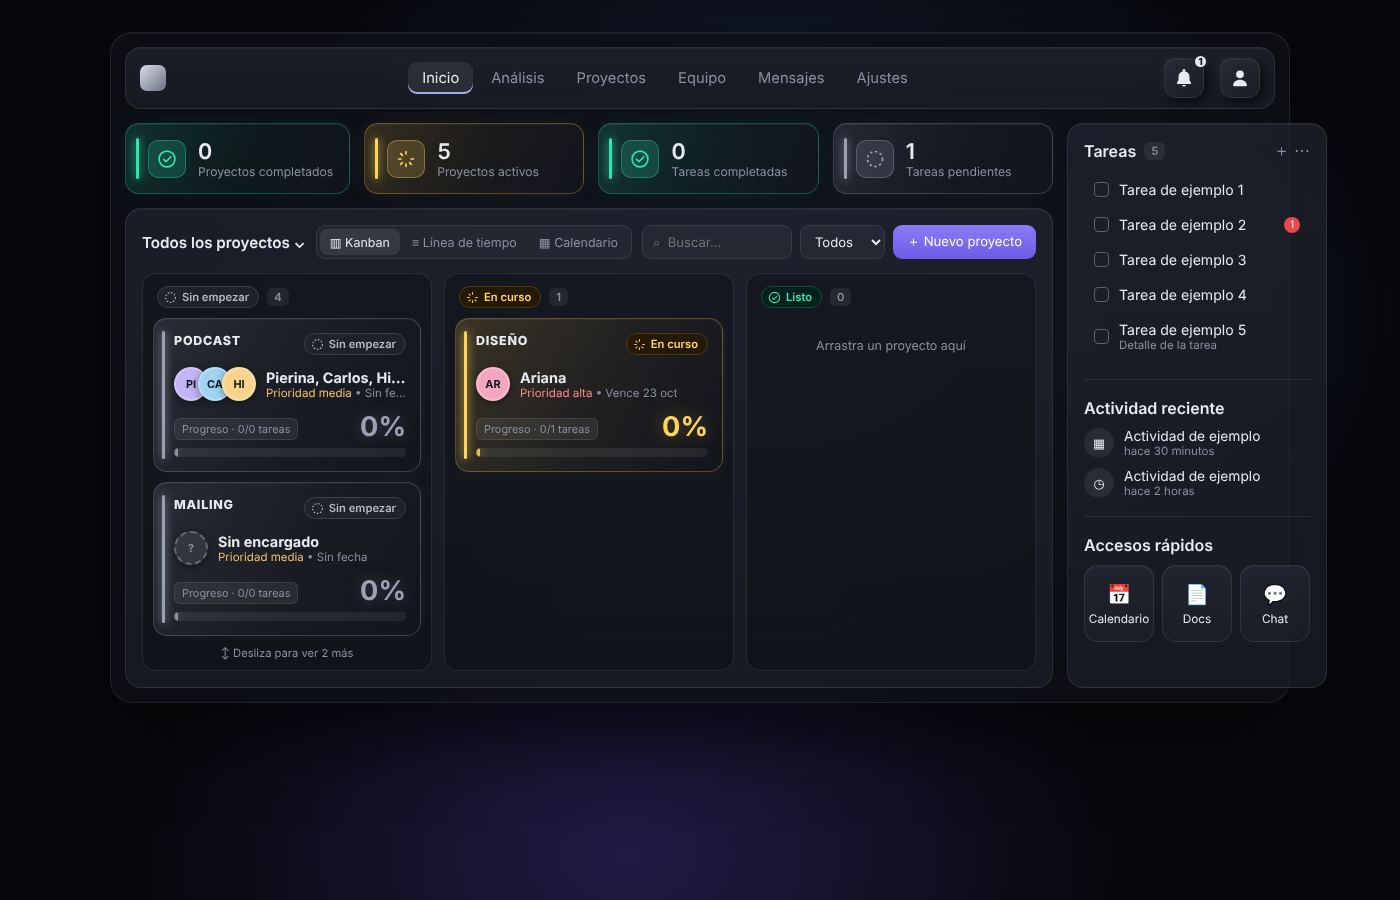
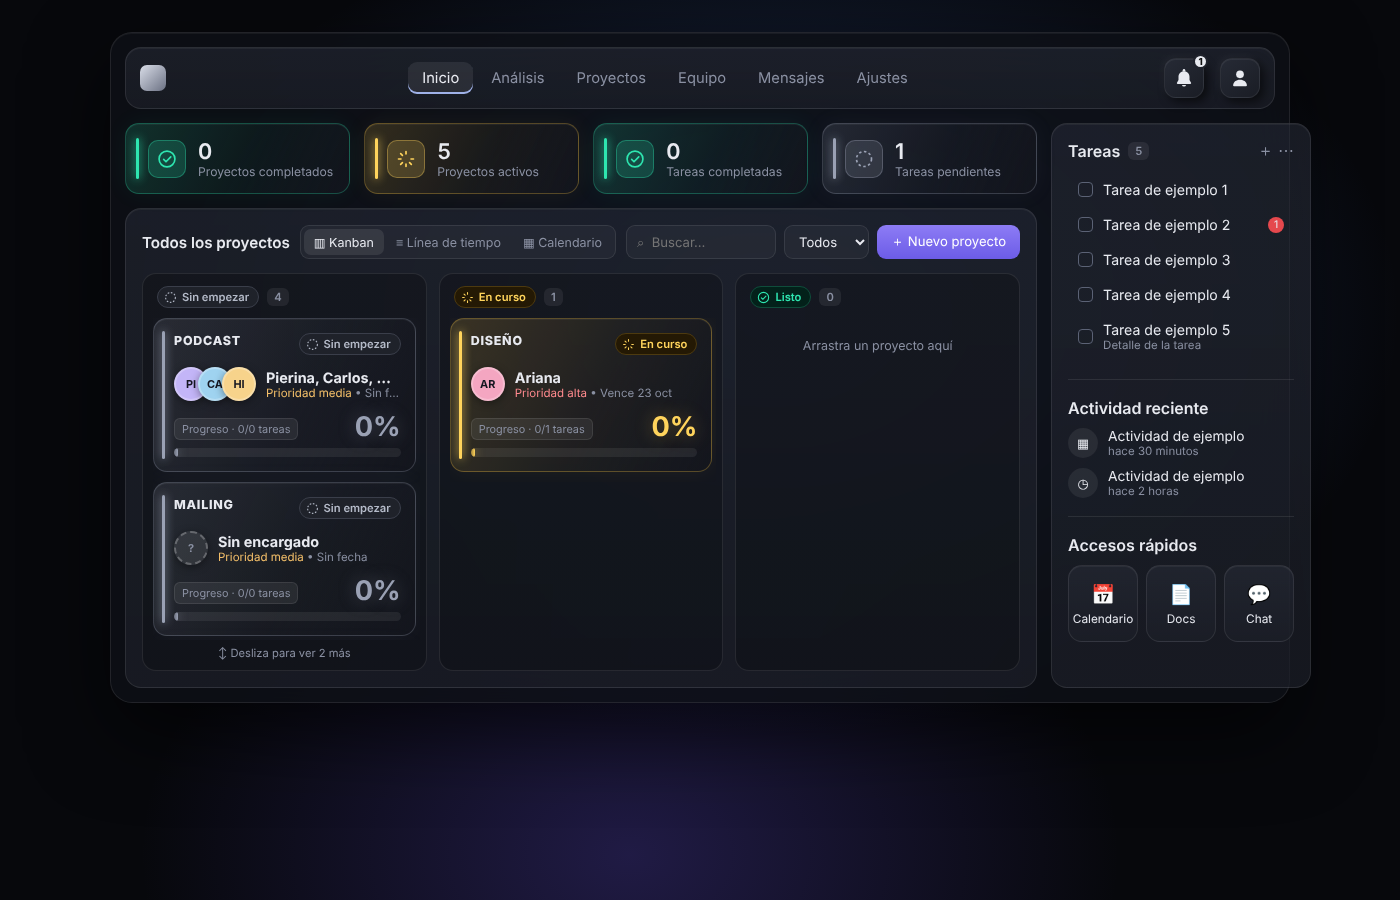
Panel: quitar flecha del título del tablero
Claude-Session: https://claude.ai/code/session_01L8QtHgV8HSYntBJ1ppQiSV

diff --git a/borradores/panel.html b/borradores/panel.html
@@ -290,7 +290,7 @@
 
       <section class="seccion vidrio tablero-caja">
         <div class="tablero-barra">
-          <h3>Todos los proyectos ⌄</h3>
+          <h3>Todos los proyectos</h3>
           <div class="vistas"><span class="vista activa" data-v="kanban">▥ Kanban</span><span class="vista" data-v="linea">≡ Línea de tiempo</span><span class="vista" data-v="calendario">▦ Calendario</span></div>
           <div class="acciones">
             <input id="buscar" class="buscar" placeholder="⌕  Buscar…" />
